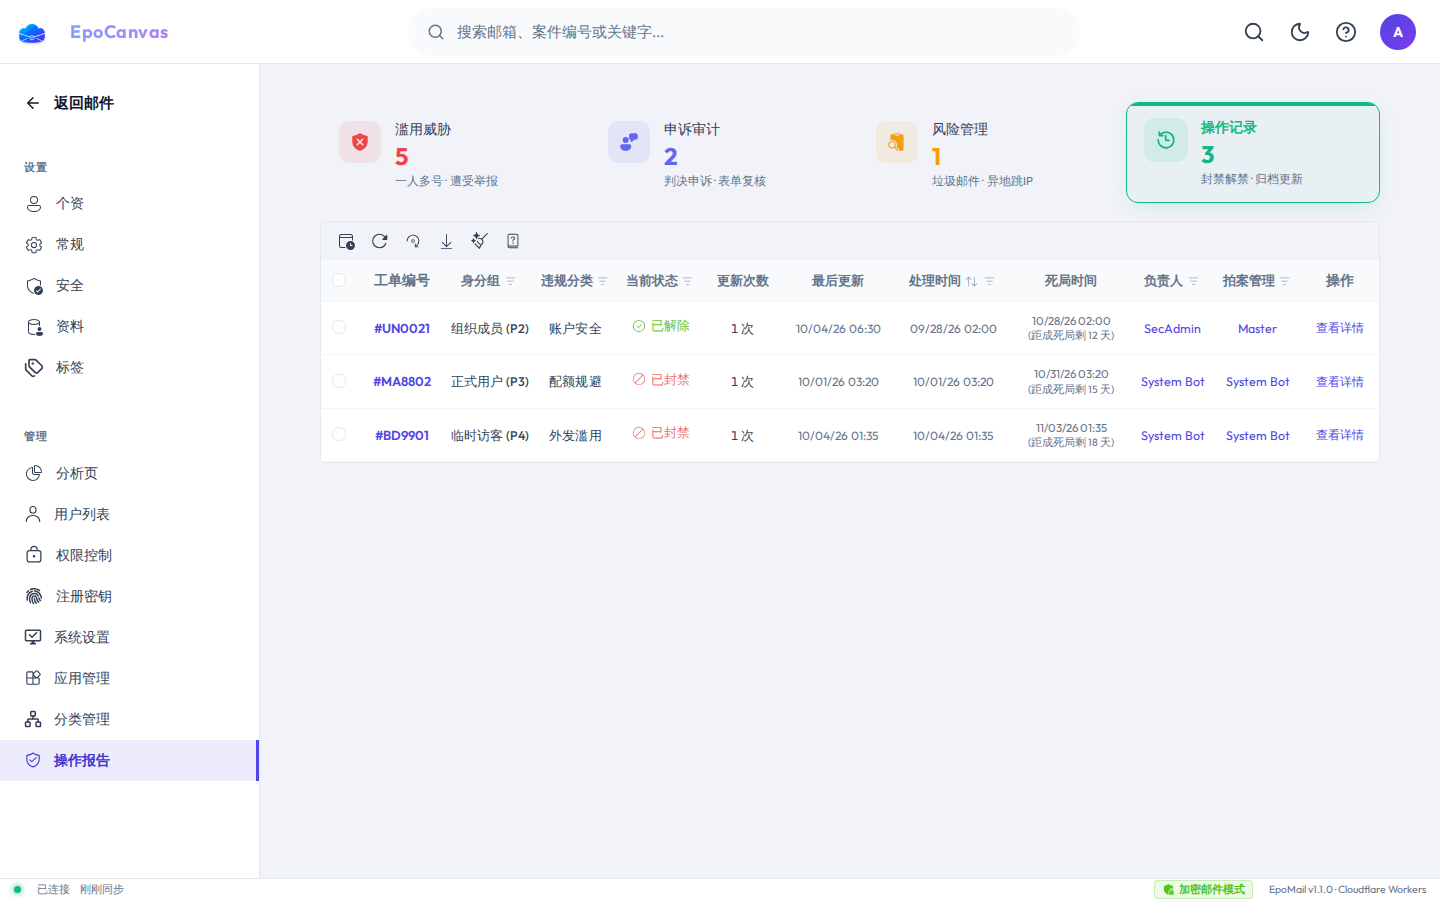
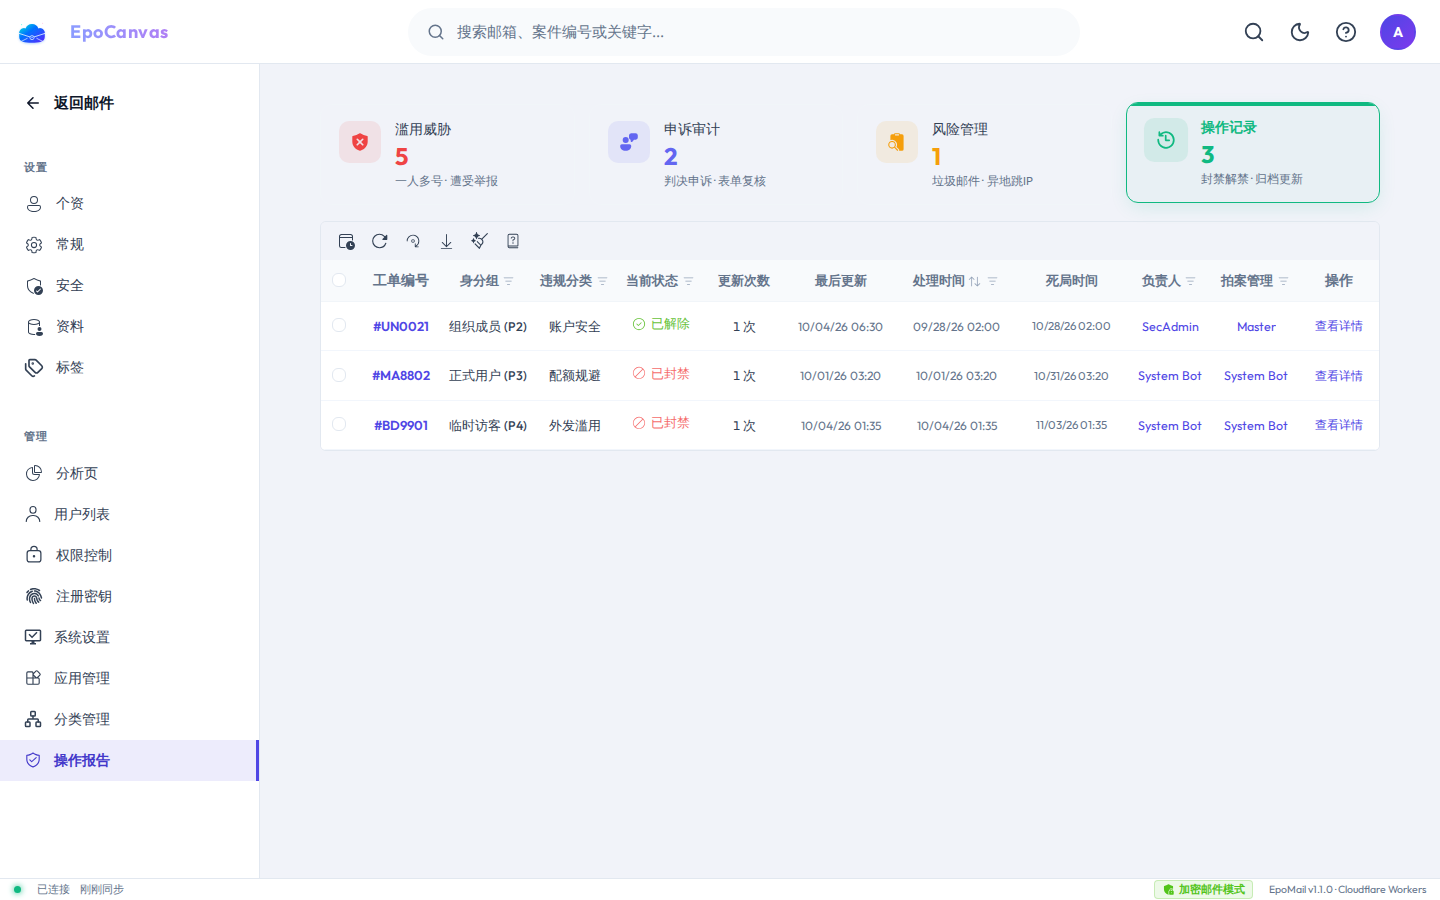
fix(audit): 根除违规内容中邮箱堆叠与死局时间中括号说明短语
- 违规内容去冗余长文本：彻底移除滥用威胁表格违规内容列中的邮箱长文本（spammer_appealed@...），仅保留 punishments.md 标准极简归类短语（遭受举报/一人多号/发信超频/密保异动等），邮箱归位至工单编号 hover 与抽屉；
- 死局时间纯净化：移除在表格单元格中直接堆叠的括号倒计时与死局说明短语（(距成死局剩 X 天) / (已成死局)），单元格统一展示为标准时间戳，悬停与过期高亮呈现状态，彻底根除详细冗余文字；
- 后端数据脱敏自愈强化：自愈 SQL 与服务层拦截清洗所有包含“被 X 名用户检举”的历史残留文本为“遭受举报”；
- 生产环境重新构建部署并实机 Playwright 截图验证通过。

diff --git a/mail-vue/src/views/audit-report/index.vue b/mail-vue/src/views/audit-report/index.vue
@@ -217,7 +217,7 @@
               <el-table-column :label="$t('auditColTicketNo')" v-if="currentSection === 'threat'" min-width="82" align="center" key="threat-col-ticket">
                 <template #default="{ row }">
                   <div class="ticket-cell">
-                    <span class="ticket-id font-mono font-medium clickable-ticket" @click="openAuditDrawer(row)">
+                    <span class="ticket-id font-mono font-medium clickable-ticket" :title="row.email" @click="openAuditDrawer(row)">
                       {{ formatAbuseTicketNo(row) }}
                     </span>
                   </div>
@@ -268,23 +268,17 @@
               </el-table-column>
 
               <!-- 列 3: 违规内容 -->
-              <el-table-column v-if="currentSection === 'threat'" min-width="145" align="center" key="threat-col-content">
+              <el-table-column v-if="currentSection === 'threat'" min-width="84" align="center" key="threat-col-content">
                 <template #header>
                   <div class="col-filter-header">
                     <span>{{ $t('auditColViolationContent') }}</span>
                   </div>
                 </template>
                 <template #default="{ row }">
-                  <div class="violation-content-cell">
-                    <div class="content-target font-mono" :title="row.email">
-                      {{ row.email }}
-                      <span v-if="row.clusterAccounts && row.clusterAccounts.length" class="cluster-inline-tag" :title="$t('abuseCatMultiAccount')">
-                        +{{ row.clusterAccounts.length }}
-                      </span>
-                    </div>
-                    <div v-if="getViolationContentSummary(row)" class="content-summary" :title="getViolationContentSummary(row)">
+                  <div class="content-cell reason-cell">
+                    <span class="plain-reason-text" :title="row.email ? (row.email + ' · ' + getViolationContentSummary(row)) : getViolationContentSummary(row)">
                       {{ getViolationContentSummary(row) }}
-                    </div>
+                    </span>
                   </div>
                 </template>
               </el-table-column>
@@ -784,7 +778,7 @@
               </el-table-column>
 
               <!-- 列 8: 死局时间 (变更: 在申请时间后面添加死局时间列) -->
-              <el-table-column v-if="currentSection === 'appeal'" min-width="118" align="center" key="appeal-col-deadlock-time">
+              <el-table-column v-if="currentSection === 'appeal'" min-width="108" align="center" key="appeal-col-deadlock-time">
                 <template #header>
                   <div class="col-filter-header">
                     <span>{{ $t('auditColDeadlockTime') }}</span>
@@ -792,11 +786,13 @@
                 </template>
                 <template #default="{ row }">
                   <div class="deadlock-cell">
-                    <span class="plain-time font-mono" :class="{ 'time-expired': isDeadlocked(row) }">
+                    <span
+                      class="plain-time font-mono"
+                      :class="{ 'time-expired': isDeadlocked(row) }"
+                      :title="getDeadlockInfo(row).desc"
+                    >
                       {{ getDeadlockInfo(row).time }}
                     </span>
-                    <span v-if="isDeadlocked(row)" class="expire-tag-expired">({{ $t('auditDeadlocked') }})</span>
-                    <span v-else class="deadlock-tag-desc">({{ getDeadlockInfo(row).desc }})</span>
                   </div>
                 </template>
               </el-table-column>
@@ -1474,7 +1470,7 @@
               </el-table-column>
 
               <!-- 列 9: 死局时间 (变更: 在处理时间后面添加死局时间列) -->
-              <el-table-column v-if="currentSection === 'record'" min-width="116" align="center" key="record-col-deadlock-time">
+              <el-table-column v-if="currentSection === 'record'" min-width="108" align="center" key="record-col-deadlock-time">
                 <template #header>
                   <div class="col-filter-header">
                     <span>{{ $t('auditColDeadlockTime') }}</span>
@@ -1482,11 +1478,13 @@
                 </template>
                 <template #default="{ row }">
                   <div class="deadlock-cell">
-                    <span class="plain-time font-mono" :class="{ 'time-expired': isDeadlocked(row) }">
+                    <span
+                      class="plain-time font-mono"
+                      :class="{ 'time-expired': isDeadlocked(row) }"
+                      :title="getDeadlockInfo(row).desc"
+                    >
                       {{ getDeadlockInfo(row).time }}
                     </span>
-                    <span v-if="isDeadlocked(row)" class="expire-tag-expired">({{ $t('auditDeadlocked') }})</span>
-                    <span v-else class="deadlock-tag-desc">({{ getDeadlockInfo(row).desc }})</span>
                   </div>
                 </template>
               </el-table-column>
@@ -1812,7 +1810,7 @@
               </el-table-column>
 
               <!-- 列 7: 死局时间 (变更: 在处理时间后面添加死局时间列) -->
-              <el-table-column v-if="currentSection === 'all'" min-width="120" align="center" key="default-col-deadlock-time">
+              <el-table-column v-if="currentSection === 'all'" min-width="108" align="center" key="default-col-deadlock-time">
                 <template #header>
                   <div class="col-filter-header">
                     <span>{{ $t('auditColDeadlockTime') }}</span>
@@ -1820,11 +1818,13 @@
                 </template>
                 <template #default="{ row }">
                   <div class="deadlock-cell">
-                    <span class="plain-time font-mono" :class="{ 'time-expired': isDeadlocked(row) }">
+                    <span
+                      class="plain-time font-mono"
+                      :class="{ 'time-expired': isDeadlocked(row) }"
+                      :title="getDeadlockInfo(row).desc"
+                    >
                       {{ getDeadlockInfo(row).time }}
                     </span>
-                    <span v-if="isDeadlocked(row)" class="expire-tag-expired">({{ $t('auditDeadlocked') }})</span>
-                    <span v-else class="deadlock-tag-desc">({{ getDeadlockInfo(row).desc }})</span>
                   </div>
                 </template>
               </el-table-column>

diff --git a/mail-worker/src/service/audit-service.js b/mail-worker/src/service/audit-service.js
@@ -193,6 +193,18 @@ const auditService = {
 					SET evidence_summary = '一人多号'
 					WHERE evidence_summary LIKE '%Jaccard%';
 				`).run();
+
+				await userDb.prepare(`
+					UPDATE audit_log
+					SET action_text = REPLACE(REPLACE(REPLACE(action_text, '被 12 名用户检举', '遭受举报'), '被 5 名用户检举', '遭受举报'), '被 4 名用户检举', '遭受举报')
+					WHERE action_text LIKE '%被%用户检举%' OR action_text LIKE '%被%人举报%';
+				`).run();
+
+				await userDb.prepare(`
+					UPDATE audit_log
+					SET detail_text = REPLACE(REPLACE(detail_text, '先后被 12 位收件人举报', '遭受举报核实'), '被 5 位收件人举报核实', '遭受举报核实')
+					WHERE detail_text LIKE '%被%位收件人举报%';
+				`).run();
 			} catch (appealErr) {
 				console.warn('ensureTables appeal check warning:', appealErr.message);
 			}
@@ -330,8 +342,8 @@ const auditService = {
 					warningType: 'risk',
 					eventType: 'user_reported',
 					category: 'security',
-					actionText: '{phishing_scam@external-fake.xyz} 外部邮件被 12 名用户检举诈骗与传销推广',
-					detailText: '外部邮件发件人。大量向站内用户投递虚假传销与欺诈外链，短时间内先后被 12 位收件人举报。按举报频次给予最高权重，推荐管理员立即将其加入系统全局黑名单。',
+					actionText: '{phishing_scam@external-fake.xyz} 外部邮件遭受举报（欺诈载荷）',
+					detailText: '外部邮件发件人，遭受举报投递虚假传销与欺诈载荷。推荐管理员立即将其加入系统全局黑名单。',
 					ip: '45.33.32.156',
 					geo: 'Fremont, US',
 					device: 'HeadlessChrome / Linux',
@@ -358,8 +370,8 @@ const auditService = {
 					warningType: 'risk',
 					eventType: 'user_reported',
 					category: 'security',
-					actionText: '{internal_spammer@epocanvas.com} 站内账号被 5 名用户检举垃圾推广',
-					detailText: '站内注册用户利用内部通讯群发垃圾广告与拉群信息，被 5 位收件人举报核实。推荐管理员对该站内账号执行限制发信（禁言）或注销账户。',
+					actionText: '{internal_spammer@epocanvas.com} 站内账号遭受举报（垃圾推广）',
+					detailText: '站内注册用户利用内部通讯群发垃圾广告，遭受举报核实。推荐管理员对该账号执行限制发信或注销。',
 					ip: '114.119.160.88',
 					geo: 'Beijing, CN',
 					device: 'Firefox 129 / Linux',
@@ -1029,9 +1041,20 @@ const auditService = {
 				}));
 			}
 
+			let cleanActionText = row.actionText;
+			if (cleanActionText && (cleanActionText.includes('被') && (cleanActionText.includes('举报') || cleanActionText.includes('检举')))) {
+				cleanActionText = cleanActionText.replace(/被\s*\d+\s*[名位个]?(用户|收件人|人)?(检举|举报)/g, '遭受举报');
+			}
+			let cleanDetailText = row.detailText;
+			if (cleanDetailText && (cleanDetailText.includes('被') && (cleanDetailText.includes('举报') || cleanDetailText.includes('检举')))) {
+				cleanDetailText = cleanDetailText.replace(/被\s*\d+\s*[名位个]?(用户|收件人|人)?(检举|举报)/g, '遭受举报');
+			}
+
 			const effectiveCreateTime = row.createTime || row.create_time || row.banTime || new Date().toISOString();
 			const item = {
 				...row,
+				actionText: cleanActionText,
+				detailText: cleanDetailText,
 				createTime: effectiveCreateTime,
 				alarmTime: row.alarmTime || effectiveCreateTime || row.banTime,
 				applyTime: row.applyTime || effectiveCreateTime || row.banTime,
